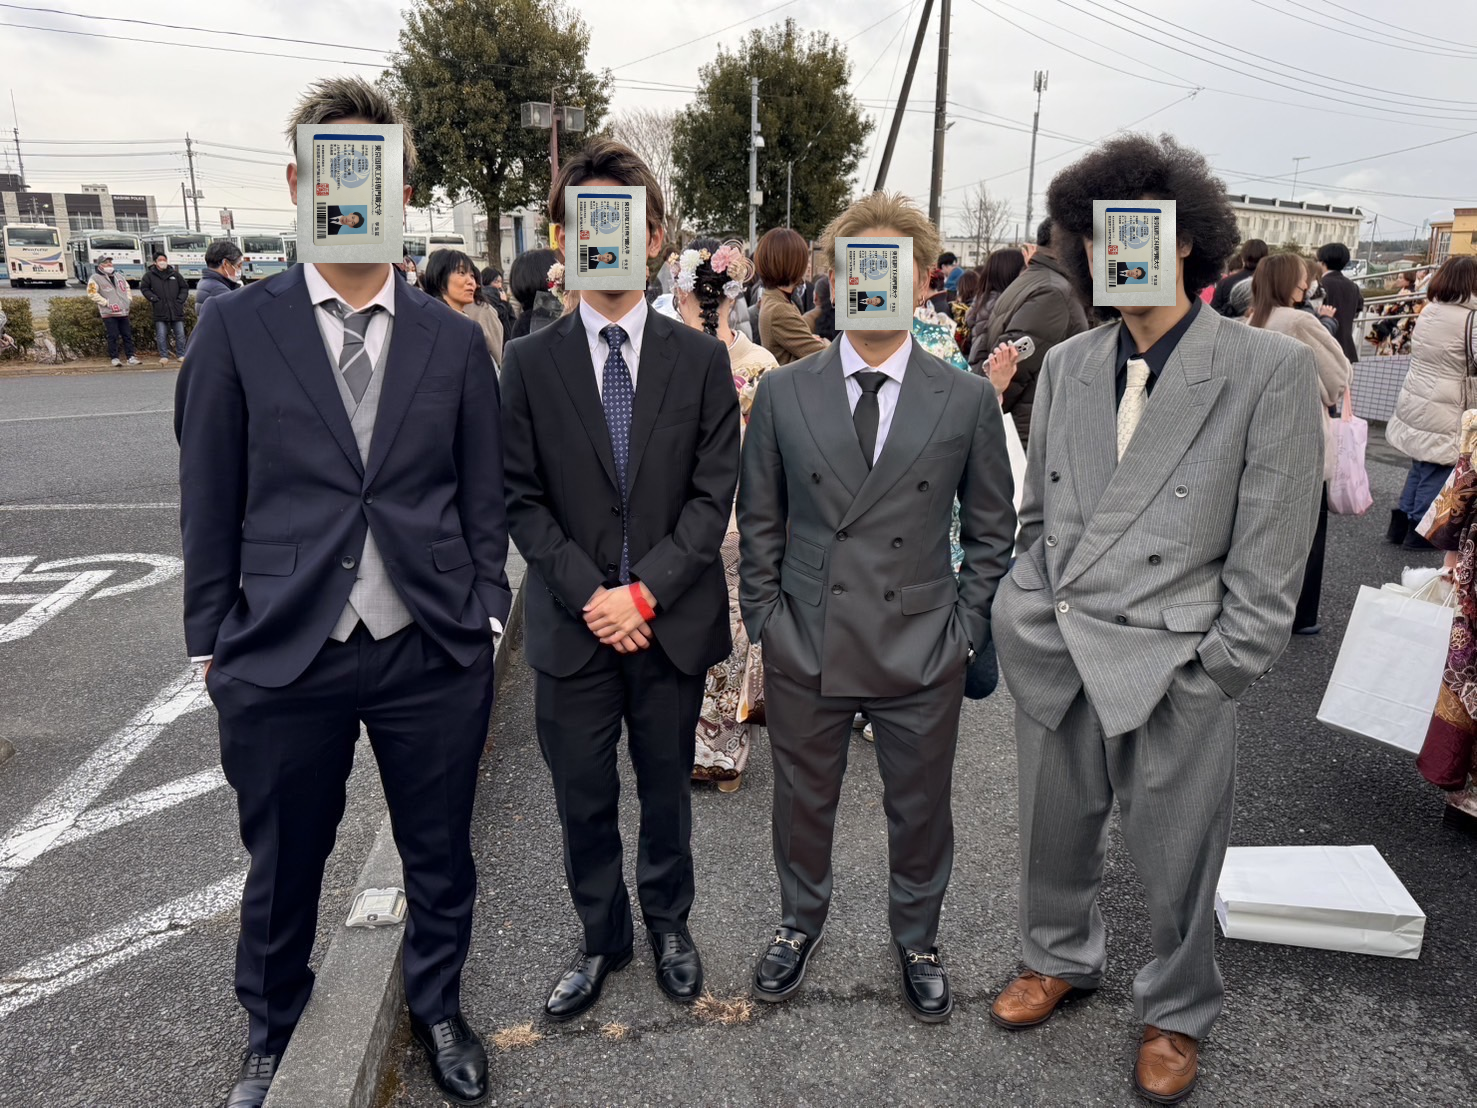
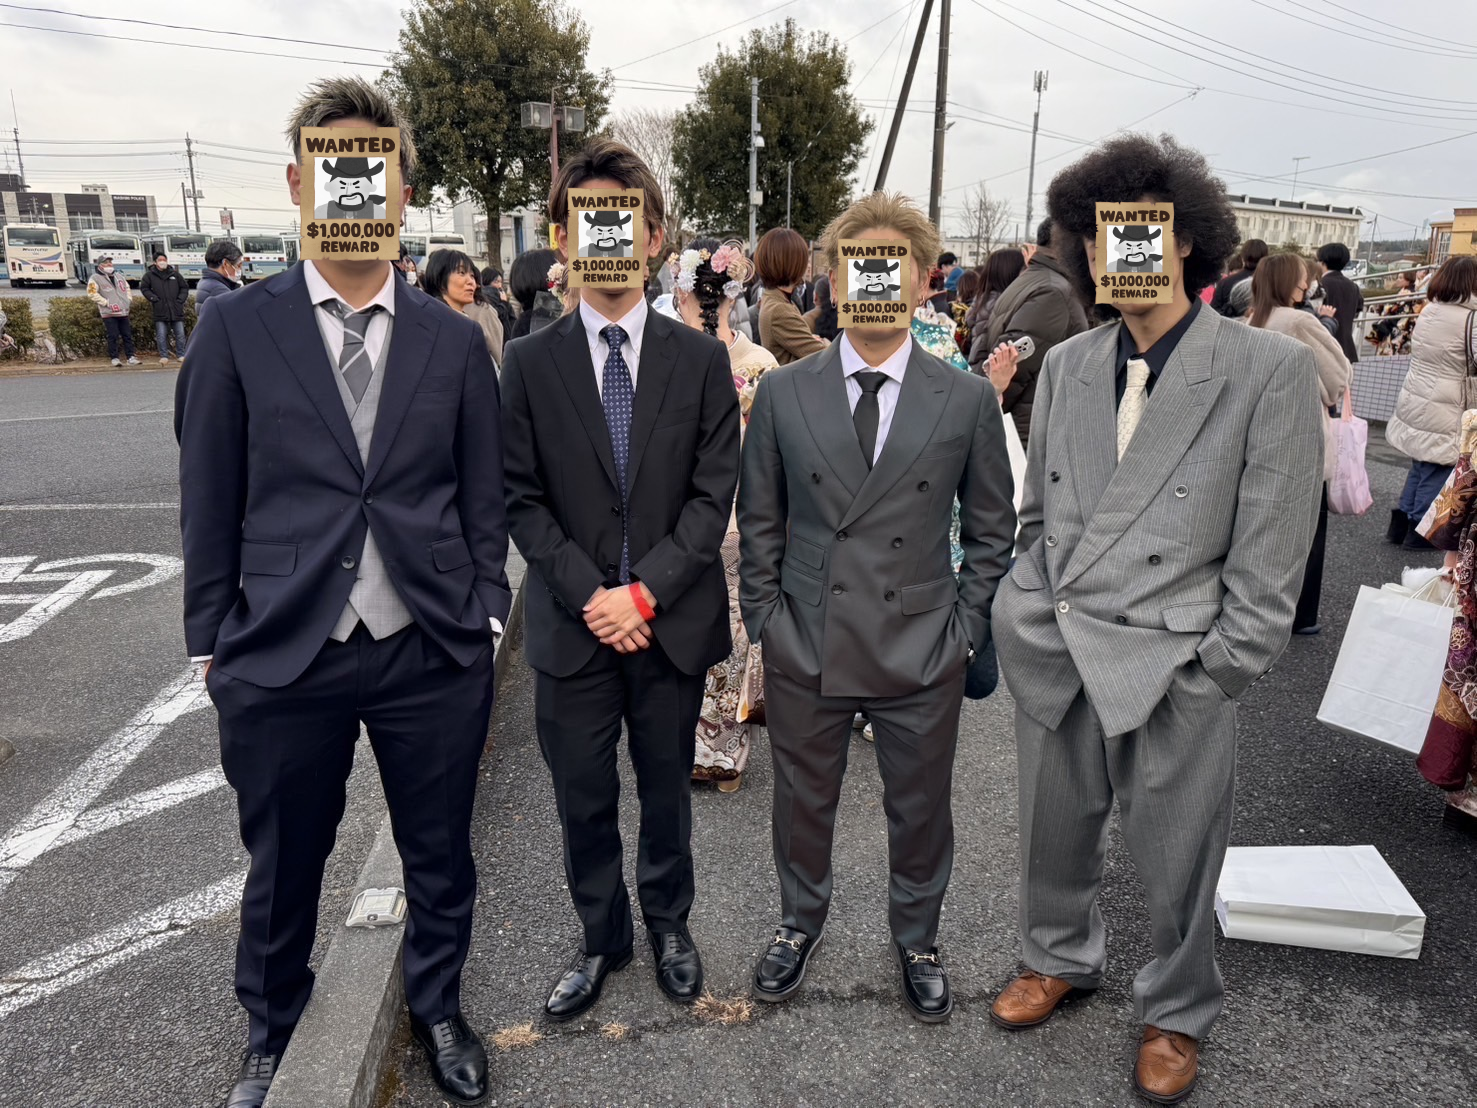
マスク画像変更

diff --git a/src/pages/api/detect.ts b/src/pages/api/detect.ts
@@ -90,7 +90,15 @@ export default async function handler(req: NextApiRequest, res: NextApiResponse)
       ctx.drawImage(image, 0, 0);
 
       // マスク画像を読み込む
-      const maskImage = await loadImage(path.join(process.cwd(), "public", "ぬま.jpg"));
+      let maskImage;
+      try {
+        maskImage = await loadImage(path.join(process.cwd(), "public", "wanted.png"));
+      } catch (error) {
+        console.error("マスク画像の読み込みエラー:", error);
+        res.status(400).json({ error: "マスク画像の読み込みに失敗しました。" });
+        return;
+      }
+
       detectedFaces.forEach(({ box: { x_min, y_min, x_max, y_max } }: any) => {
         const maskWidth = x_max - x_min;
         const maskHeight = y_max - y_min;
